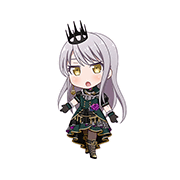
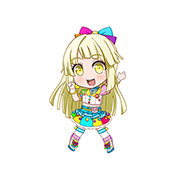
feature: auto select chibi image

Changed region(s): [[0.2778, 0.1111, 0.7222, 0.8889]]

diff --git a/main.py b/main.py
@@ -36,6 +36,15 @@ def make_video(constants):
     print('Video process start with', constants.THREADS, 'processes')
     start_time = time.time()
 
+    print('Copy chibi image')
+    if constants.BAND_ID in ['1', '2', '3', '4', '5', '18', '21']:
+        band_id = constants.BAND_ID
+    else:
+        band_id = '1'
+    for chibi_id in range(5):
+        chibi_image = 'chibi/preset/' + band_id + '/' + str(chibi_id) + '.png'
+        shutil.copy2(chibi_image, 'chibi/')
+
     print('Parse score')
     frame_maker = frame.FrameMaker(constants)
     frame_list = frame_maker.make_frames()

diff --git a/frame.py b/frame.py
@@ -247,6 +247,7 @@ class Constants:
         self.BPM_POSITION = settings['BPM_POSITION']
         self.CHIBI_POSITION = settings['CHIBI_POSITION']
         self.CHIBI_SCALE = settings['CHIBI_SCALE']
+        self.BAND_ID = str(metadata['bandId'])
 
         self.COMBO_SCALE_A = settings['COMBO_SCALE_A']
         self.COMBO_SCALE_B = settings['COMBO_SCALE_B']
